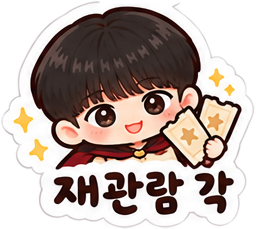
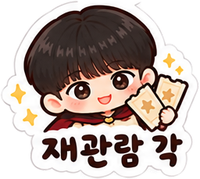
스티커 크기 축소 (360px → 200px)
Claude-Session: https://claude.ai/code/session_0182RkLH2s9FgvYRPuFSwTt5

diff --git a/index.html b/index.html
@@ -185,7 +185,7 @@ button,input,textarea,select{font:inherit;color:inherit}
 .paper .sec{font-weight:900;margin-top:4px;color:var(--velvet)}
 .paper .slot{display:inline-block;color:#b4600b;font-weight:700;background:#fff1de;border-radius:8px;padding:2px 8px;margin:4px 0}
 .paper img{display:block;max-width:min(100%,420px);margin:6px auto 2px;border-radius:12px}
-.paper img.stk{width:150px;border-radius:0;margin:2px auto}
+.paper img.stk{width:110px;border-radius:0;margin:2px auto}
 .upl{font-weight:500;display:flex;flex-wrap:wrap;align-items:center;gap:8px}
 .tags{display:flex;flex-wrap:wrap;gap:6px}
 .tags span{background:var(--gold-soft);color:var(--gold);padding:5px 11px;border-radius:99px;font-size:.86rem;font-weight:700}
@@ -447,7 +447,7 @@ const STICKERS = {
 };
 const TYPE_STICKER = { exhibit:'다녀왔어요', musical:'다녀왔어요', play:'다녀왔어요', concert:'콘서트 후기', movie:'영화 후기', escape:'방탈출 후기' };
 const stickerOf = line => { const m = String(line).match(/^\[스티커: (.+)\]$/); return m && STICKERS[m[1]] ? STICKERS[m[1]] : null; };
-const stickerURL = key => new URL(`stickers/${key}.png`, location.href).href;
+const stickerURL = key => new URL(`stickers/${key}.png?v=2`, location.href).href;   // ?v=2: 작게 줄인 새 스티커를 받아오도록
 
 /* ---------------------------------------------------------------
    4. 저장소: 일정(localStorage) + 사진(IndexedDB, 실패 시 메모리)
@@ -1377,7 +1377,7 @@ function bodyHTML(lines, photoMap = {}){
     const ph = l.match(/^\[사진: (\d\d) (.+)\]$/);
     if (ph && photoMap[ph[1]]) return `<p style="text-align:center"><img src="${photoMap[ph[1]]}" alt="${esc(ph[2])}" style="max-width:100%"></p>`;
     const sk = stickerOf(l);
-    if (sk) return `<p style="text-align:center"><img src="${stickerURL(sk)}" width="170" alt="${esc(l.slice(6, -1))}"></p>`;
+    if (sk) return `<p style="text-align:center"><img src="${stickerURL(sk)}" width="140" alt="${esc(l.slice(6, -1))}"></p>`;
     const slot = l.match(/^\[사진: (\d\d) (.+)\]$/);
     if (slot) return `<p style="text-align:center"><span style="color:#f08a24;font-weight:bold">📌 사진 ${slot[1]} 넣기 · ${esc(slot[2])}</span></p>`;
     if (/^\[(사진|스티커):/.test(l)) return `<p style="text-align:center"><span style="color:#f08a24;font-weight:bold">📌 ${esc(l.slice(1, -1))} 넣기</span></p>`;
@@ -1556,7 +1556,7 @@ function celebrate(emoji, text, big){
      '새 버전' 안내를 띄움 → 누르면 최신 버전으로 새로고침 (데이터는 그대로 유지)
    - 앱을 열 때 / 다시 화면에 돌아올 때 / 30분마다 확인
    --------------------------------------------------------------- */
-const APP_VERSION = '2026.10.26-5';
+const APP_VERSION = '2026.10.26-6';
 async function checkUpdate(){
   if (!/^https?:/.test(location.protocol)) return;            // 파일로 열었을 땐 건너뜀
   try{
